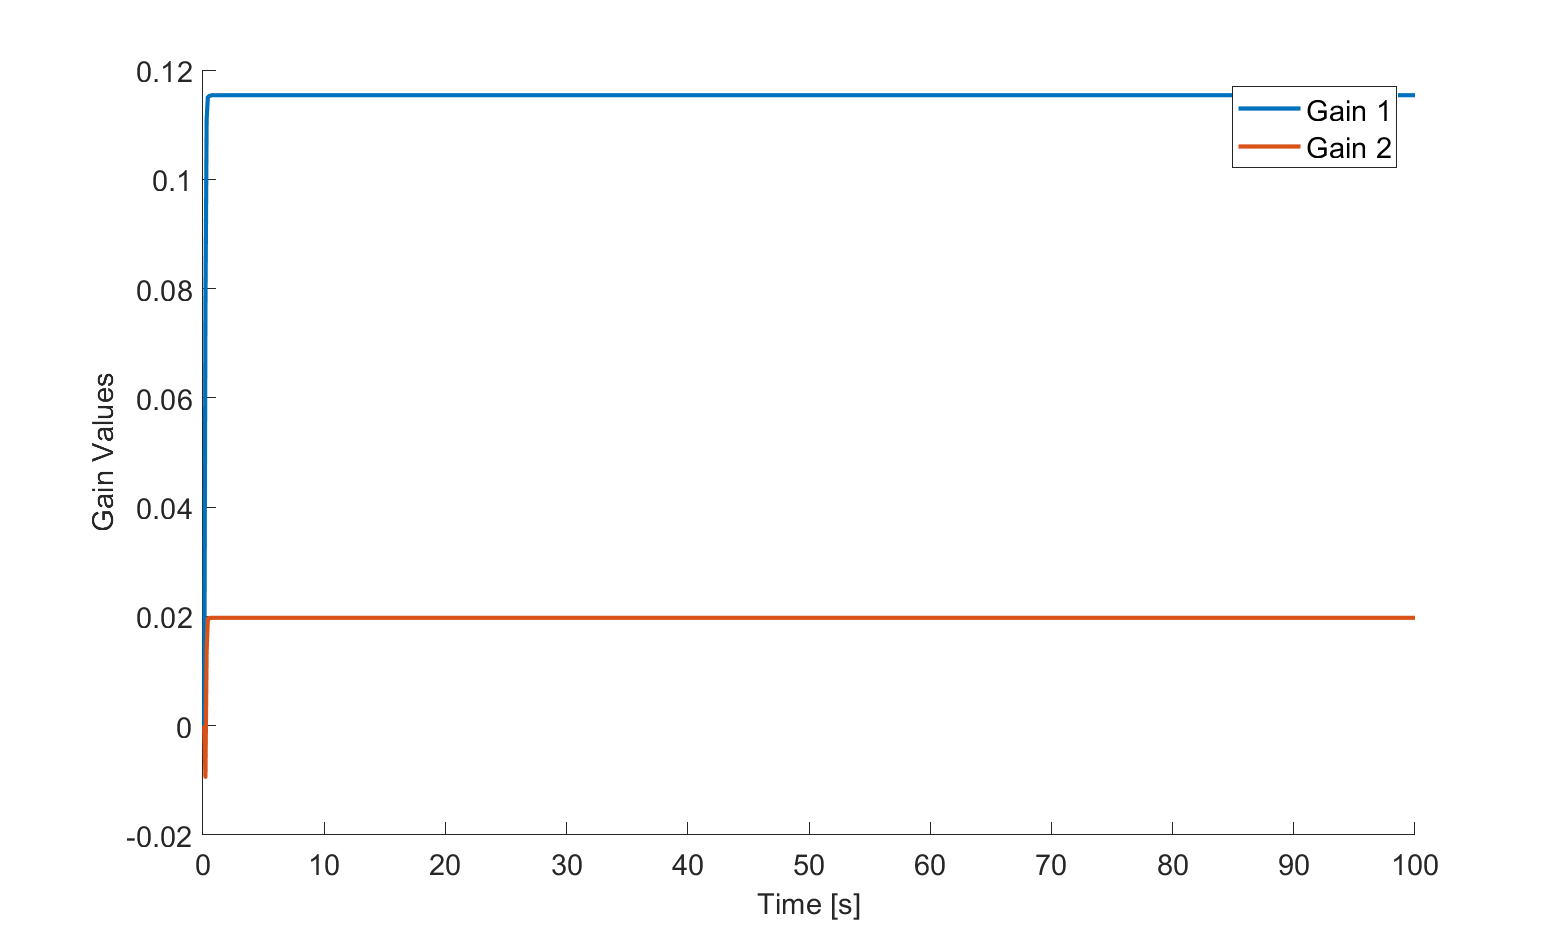
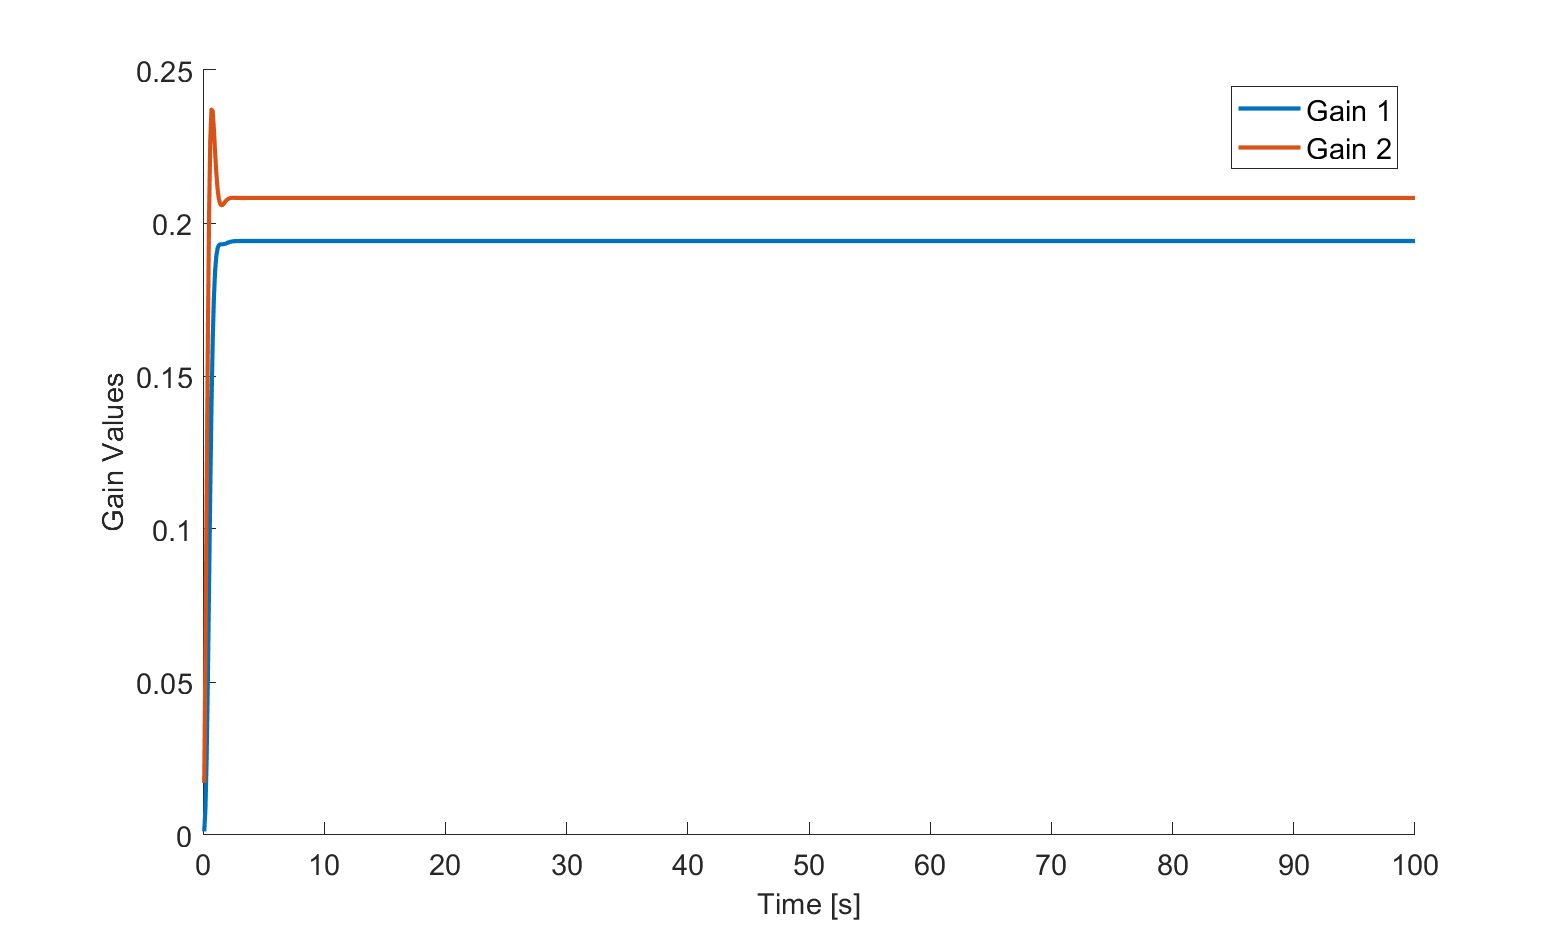
Completing Part C

diff --git a/hw3.tex b/hw3.tex
@@ -62,23 +62,84 @@
             \end{figure}
         }
         \clearpage
-        \part{What is $Q$,$Q_d$, and $R_d$?}
+        \part{What is $Q$,$\mathbf{Q}_d$, and $R_d$?}
 
         \solution{%
-            We know $Q$ to be the variance of the process noise, or $E\left[ww^T\right]$. Executing this expectation tells us that \[Q \approx 4. \]
-            $Q_d$ is the process noise over time and can be evaulated with $\mathbf{B}_wQ\mathbf{B}_w^T\delta t$. This leads us to find that
-            \[Q_d \approx
+        We know $Q$ to be the variance of the process noise, or $E\left[ww^T\right]$. Executing this expectation tells us that \[Q \approx 4. \]
+        $\mathbf{Q}_d$ is the discrete process noise and can be evaulated by first finding the discrete dynamic model, $A_d$. We can determine $A_d$ by usings Bryson's trick as seen in Equation \ref{eq:3}.
+        \begin{equation}
+            \begin{split}
+                \mathbf{A}_d & = \left(e^{\mathbf{s}\Delta t}_{2,2}\right)^T\\
+                \mathbf{s} & =
                 \begin{bmatrix}
-                    0 & 0   \\
-                    0 & 0.4 \\
-                \end{bmatrix}. \]
-            $R_d$ is similar to $Q$ but instead of the process noise, it is the variance of the sensor noise. We can approximate $R_d$ as \[R_d \approx 1. \]
+                    -\mathbf{A}_{CL} & \left(\mathbf{B}_w Q \mathbf{B}_w\right) \\
+                    0                & \mathbf{A}_{CL}^T                        \\
+                \end{bmatrix} \\
+                & =
+                \begin{bmatrix}
+                    0 & -1  & 0 & 0    \\
+                    1 & 1.4 & 0 & 40   \\
+                    0 & 0   & 0 & -1   \\
+                    0 & 0   & 1 & -1.4 \\
+                \end{bmatrix} \\
+                \mathbf{s}\Delta t & =
+                \begin{bmatrix}
+                    0  & -.1 & 0  & 0    \\
+                    .1 & .14 & 0  & 0.4  \\
+                    0  & 0   & 0  & -.1  \\
+                    0  & 0   & .1 & -.14 \\
+                \end{bmatrix} \\
+                e^{\mathbf{s}\Delta t} & =
+                \begin{bmatrix}
+                    0.994 & -0.107 & -0.001 & -0.021 \\
+                    0.107 & 1.144  & 0.021  & 0.431  \\
+                    0     & 0      & 0.995  & -0.093 \\
+                    0     & 0      & 0.093  & 0.864  \\
+                \end{bmatrix} \\
+                \mathbf{A}_d & =
+                \begin{bmatrix}
+                    0.995  & 0.093 \\
+                    -0.093 & 0.864 \\
+                \end{bmatrix}\\
+            \end{split}
+            \label{eq:3}
+        \end{equation}
+        From Equation \ref{eq:3} we can calculate the discrete process noise as $\mathbf{Q}_d = \mathbf{A}_de^{\mathbf{s}\Delta t}_{1,2}$.
+        \begin{equation}
+            \begin{split}
+                \mathbf{Q}_d & =
+                \begin{bmatrix}
+                    0 & 0    \\
+                    0 & 0.43 \\
+                \end{bmatrix} \\
+            \end{split}
+            \label{eq:4}
+        \end{equation}
+        $R_d$ is similar to $Q$ but instead of the process noise, it is the variance of the sensor noise. We can approximate $R_d$ as \[R_d \approx 1. \]
         }
         \part{Calculate the steady state Kalman gain for the system. This can be done in one of many ways: iterate the Kalman filter unit it converges, $dlqe.m$, $dare.m$, $kalman.m$, $dlqr.m$ ($+$ predictor to current estimator trick), etc.
             What is the steady state covariance of the estimates after the time update, $P^{(-)}$, as well as after the measurement update,$P^{(+)}$? Where are the poles of the estimator?}
 
         \solution{%
+            In order to add the Kalman Filter to our existing model, we need to install a time update and measurement update with \textit{a priori} and \textit{a posteriori} covariance estimate to change our Kalman gains as we iterate through time (Equation \ref{eq:5},\ref{eq:6}). Keep in mind, for the following equations, I signify the time update with a superscript $t$ and a measurement update with a superscript $m$. These are typically listed as $-$ and $+$, respectively.
+            \begin{equation}
+                \text{Time Update}
+                \begin{split}
+                    \mathbf{\hat{x}}^t_k & = \mathbf{A}_d \mathbf{\hat{x}}^m_{k-1} \\
+                    \mathbf{P}^t_k & = \mathbf{A}_d \mathbf{P}^m_k \mathbf{A}_d^T + \mathbf{Q}_k\\
+                \end{split}
+                \label{eq:5}
+            \end{equation}
 
+            \begin{equation}
+                \text{Measurement Update}
+                \begin{split}
+                    \mathbf{L}_k & = \mathbf{P}^t_k \mathbf{C}^T_d \left(\mathbf{C}_d \mathbf{P}^t_k \mathbf{C}_d^T + R_k\right)^{-1}\\
+                    \mathbf{P}^m_k & = \left(\mathbf{I} - \mathbf{L}_k \mathbf{C}_d\right)\mathbf{P}^t_k \\
+                    \mathbf{\hat{x}}^m_k & = \mathbf{\hat{x}}^t_k + \mathbf{L}_k \left(Y_k - \mathbf{C}_d \mathbf{\hat{x}}^t_k\right) \\
+                \end{split}
+                \label{eq:6}
+            \end{equation}
         }
 
         \part{Now use the steady state Kalman filter to generate an estimate $\big(\hat{x}\;\text{and}\;\hat{\dot{x}}\big)$ of the 2 states over time. Calculate the norm of the standard deviation of the errors of each state. \[N = \sqrt{\big(std\big(\dot{x} - \hat{\dot{x}}\big)\big)^2 + \left(std\big(x - \hat{x}\big)\right)^2} \]}

diff --git a/Q1.m b/Q1.m
@@ -16,7 +16,7 @@ plotFontSize = 14;
 % State Space System
 A_CL = [0 1;-1 -1.4]; % Closed-Loop A-Matrix
 
-A_d = expm(A_CL'); % X = e^(At)
+
 B = [0;1];
 C = [1 0];
 
@@ -64,6 +64,10 @@ R_d = mean(R);
 
 %% Begin Problem 1 Part C
 
+% Defining discrete dynamic model
+trick = expm([-A_CL (B*Q*B');zeros(2) A_CL']*dt);
+A_d = trick(3:4,3:4)';
+Q_d = A_d*trick(1:2,3:4);
 % Pre-allocating for speed
 X_hat = zeros(2,length(tSequence));
 P = eye(2);
